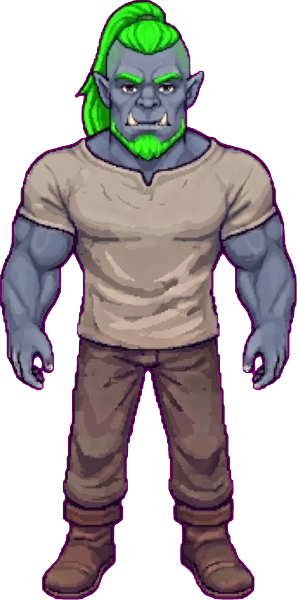
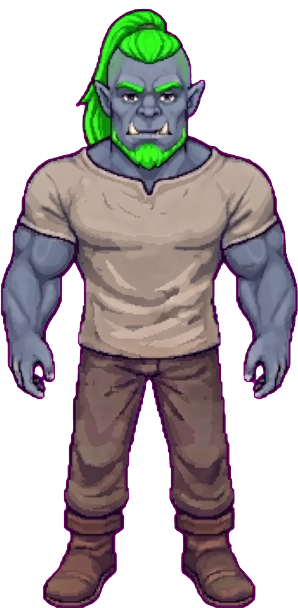
Meio-orc: 4 penteados e 4 barbas; olhos castanhos como padrão

Changed region(s): [[0.0, 0.0, 1.0, 1.0]]

diff --git a/js/ruleset.js b/js/ruleset.js
@@ -136,7 +136,7 @@
     meio_orc: {                                 // pele desenhada cinza-azulada (sem verde: o verde e do cabelo); o verde vem por codigo
       pele: [['Verde', '#6f8c4a'], ['Verde-acinzentada', '#7f8c68'], ['Verde-oliva', '#7a8540'], ['Verde-escura', '#4c6236'], ['Cinza-azulada', null], ['Cinza-pedra', '#85817a'], ['Bronze', '#93684a']],
       cabelo: [['Preto', '#2a2422'], ['Castanho-escuro', '#4a3326'], ['Ruivo', '#a8482a'], ['Grisalho', '#9b968f'], ['Branco', '#ebe6dc'], ['Castanho', '#6b4630']],
-      olhos: [['Castanhos', null], ['Vermelhos', '#c0302a'], ['Amarelos', '#d8c040'], ['Âmbar', '#d0902a'], ['Pretos', '#201a17'], ['Verdes', '#3f9a4a']]
+      olhos: [['Castanhos', '#7a4a26'], ['Vermelhos', '#c0302a'], ['Amarelos', '#d8c040'], ['Âmbar', '#d0902a'], ['Pretos', '#201a17'], ['Cinzentos', null]]
     },
     halfling: {                                 // o pelo dos pes muda junto com o cabelo
       pele: [['Rosada', null], ['Clara', '#f0c8b0'], ['Bronzeada', '#c68e6c'], ['Morena', '#9a6a50'], ['Negra', '#6b4535'], ['Pálida', '#f3dcd2']],
@@ -161,8 +161,8 @@
       barba: [['Cheia curta', null], ['Longa', 'longa'], ['Trançada', 'trancada'], ['Bifurcada', 'bifurcada'], ['Bigodão', 'bigodao']]
     },
     meio_orc: {
-      penteado: [['Rabo e laterais raspadas', null]],
-      barba: [['Curta', null]]
+      penteado: [['Rabo e laterais raspadas', null], ['Moicano', 'moicano'], ['Careca', 'careca'], ['Tranças', 'trancas'], ['Solto', 'solto']],
+      barba: [['Curta', null], ['Sem barba', 'lisa'], ['Cheia', 'cheia'], ['Trançada', 'trancada'], ['Cavanhaque', 'cavanhaque']]
     },
     gnomo: {
       penteado: [['Espetado', null], ['Careca', 'careca'], ['Topete', 'topete'], ['Rabinho', 'rabinho'], ['Cacheado', 'cacheado']],

diff --git a/index.html b/index.html
@@ -203,7 +203,7 @@
   <script src="js/palace.js?v=69"></script>
   <script src="js/critters_draw.js?v=1"></script>
   <script src="js/fauna.js?v=23"></script>
-  <script src="js/ruleset.js?v=17"></script>
+  <script src="js/ruleset.js?v=19"></script>
   <script src="js/character_creation.js?v=12"></script>
   <script src="js/game.js?v=82"></script>
 </body>
